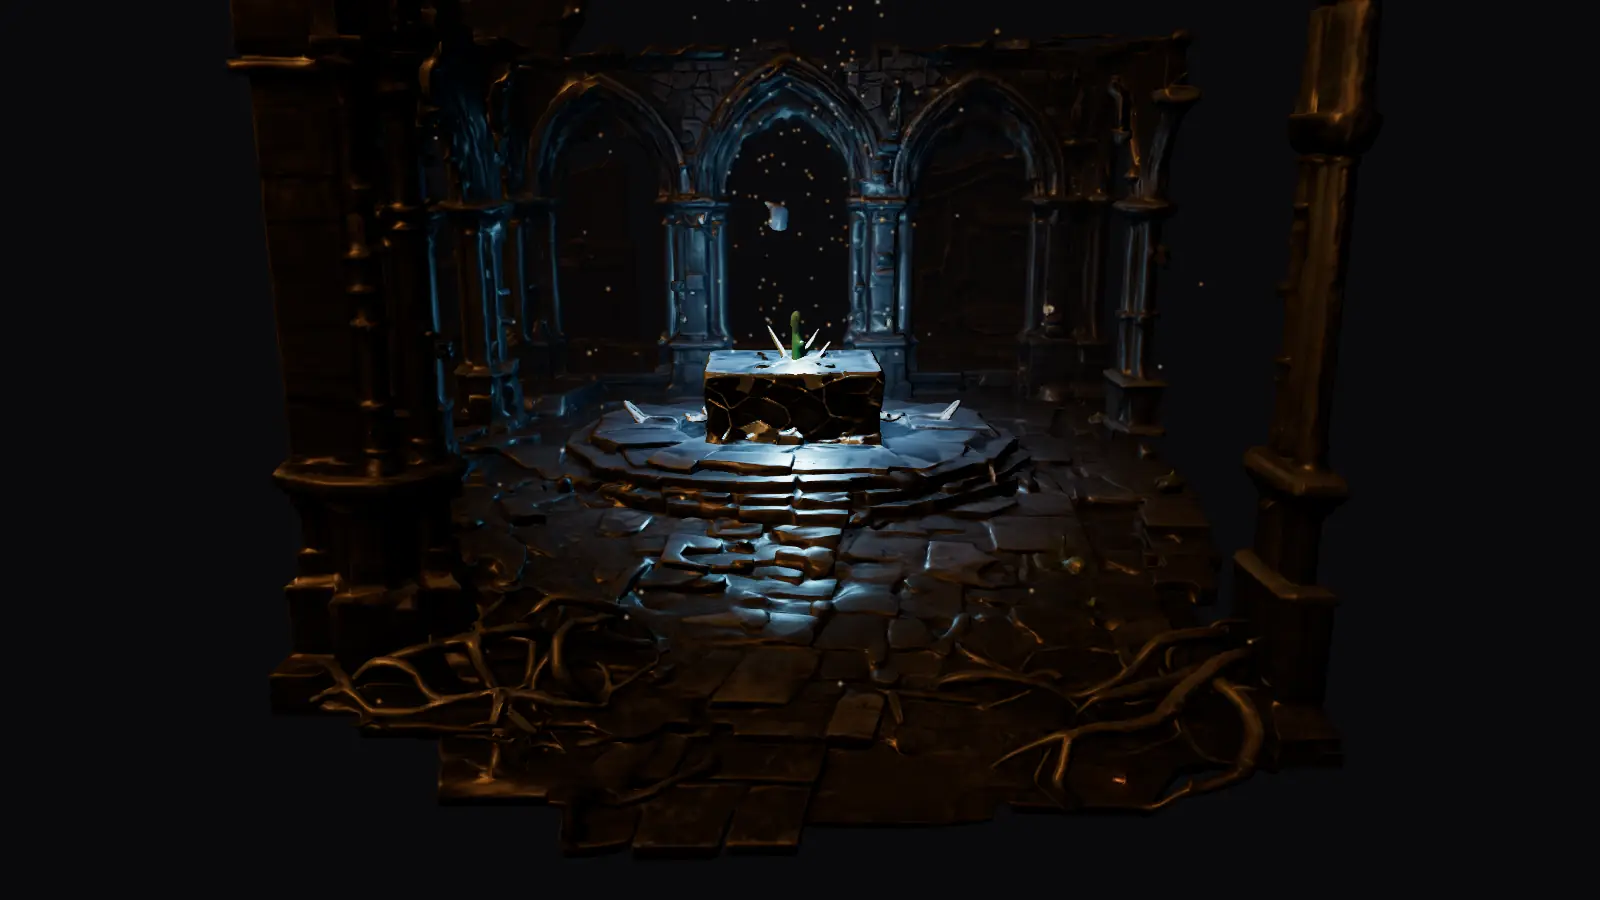
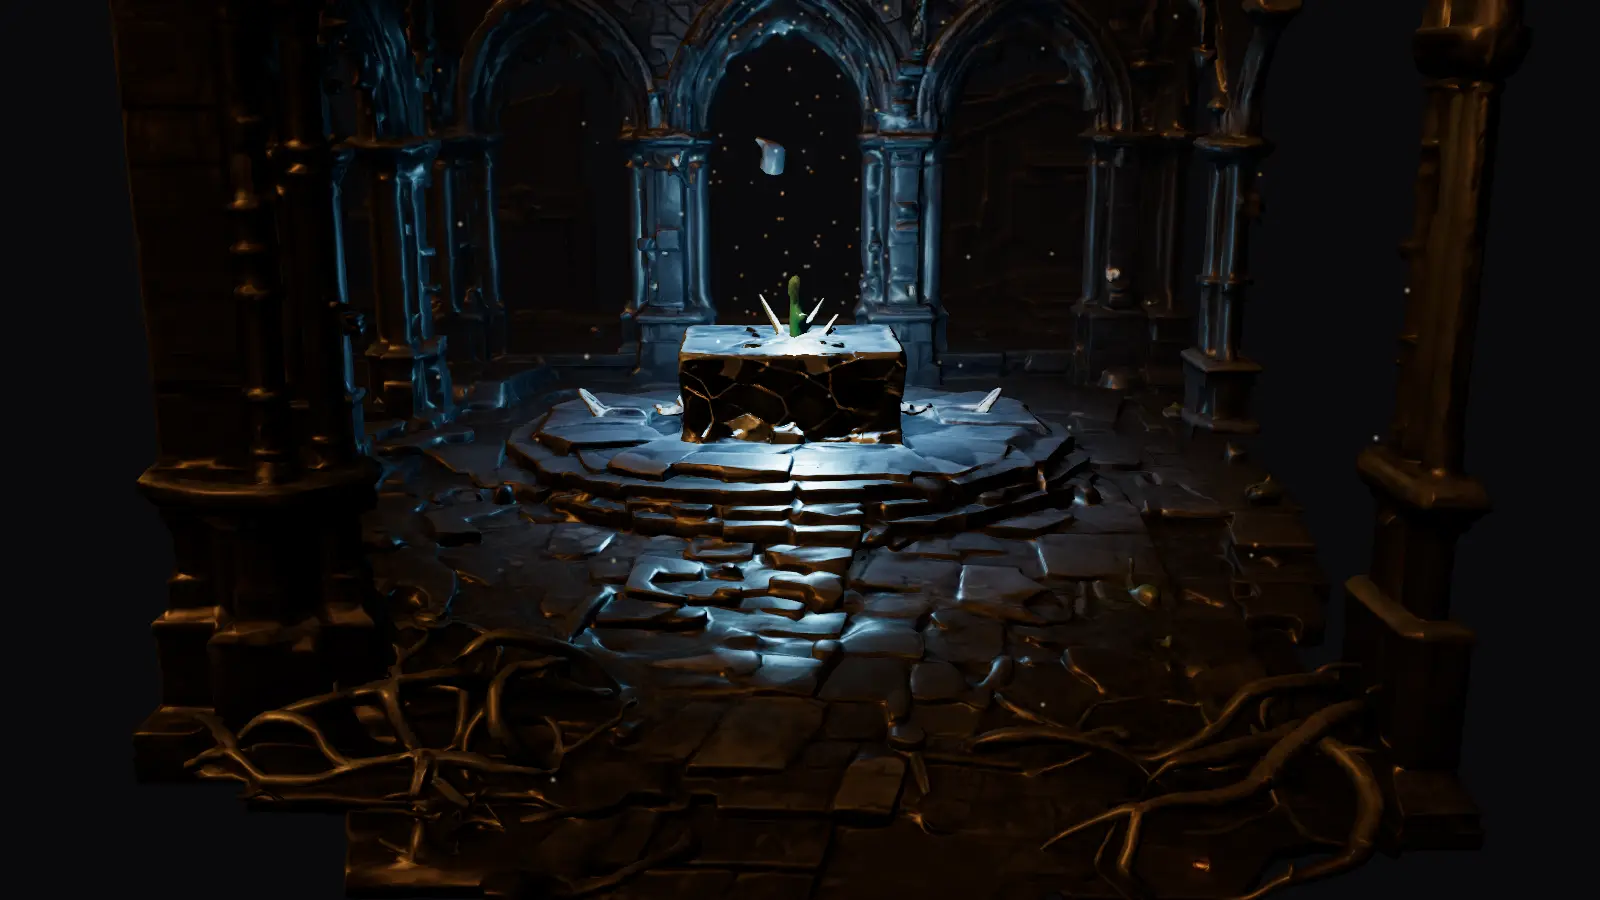
feat: cierre de landing page

diff --git a/src/components/sections/Journey.tsx b/src/components/sections/Journey.tsx
@@ -64,7 +64,7 @@ export function Journey() {
     >
       {/* Escenario: fijado mientras se recorre la sección. Sin overflow-hidden en la section, o sticky deja de funcionar. */}
       <div className="sticky top-0 h-svh overflow-hidden">
-        <HeroBackdrop cameraPath={progress} allowLive={live && near} />
+        <HeroBackdrop cameraPath={progress} allowLive={live && near} poster="journey" />
         <div
           aria-hidden="true"
           className="pointer-events-none absolute inset-0 bg-radial-[ellipse_80%_75%_at_50%_45%] from-transparent from-45% to-canvas"
@@ -75,15 +75,20 @@ export function Journey() {
         />
         <div
           aria-hidden="true"
-          className="pointer-events-none absolute inset-x-0 bottom-0 h-1/4 bg-linear-to-t from-canvas to-transparent"
+          className="pointer-events-none absolute inset-x-0 bottom-0 h-2/5 bg-linear-to-t from-canvas via-canvas/85 to-transparent"
         />
       </div>
 
       {/* Textos: suben sobre el escenario (margen negativo de una pantalla) y marcan cada tramo. */}
       <Container className="relative mt-[-100svh]">
-        {/* El degradado oscurece la escena justo detrás del titular para que se lea sobre la escalinata. */}
-        <header className="flex min-h-svh flex-col items-center justify-center gap-4 bg-radial-[ellipse_50%_28%_at_50%_52%] from-canvas/75 to-transparent text-center">
-          <Badge>{journey.eyebrow}</Badge>
+        {/* Móvil/tablet: texto centrado con un degradado radial detrás. En escritorio (lg) el bloque pasa
+            a la izquierda, fuera del altar, sobre un degradado que cubre ese lado a todo el ancho de la pantalla. */}
+        <header className="relative isolate flex min-h-svh flex-col items-center justify-center gap-4 bg-radial-[ellipse_85%_38%_at_50%_52%] from-canvas/92 from-30% to-transparent text-center lg:items-start lg:bg-none lg:pr-[56%] lg:text-left">
+          <div
+            aria-hidden="true"
+            className="pointer-events-none absolute inset-y-0 left-1/2 -z-10 hidden w-screen -translate-x-1/2 bg-radial-[ellipse_48%_46%_at_24%_52%] from-canvas/90 from-35% to-transparent lg:block"
+          />
+          <Badge solid>{journey.eyebrow}</Badge>
           <RevealHeading
             id="journey-title"
             text={journey.title}
@@ -102,7 +107,7 @@ export function Journey() {
             >
               <article
                 data-journey-step
-                className="flex max-w-md flex-col gap-3 rounded-lg border border-line bg-canvas/80 p-8 shadow-card"
+                className="flex max-w-md flex-col gap-3 rounded-lg border border-line bg-canvas/90 p-8 shadow-card"
               >
                 <p aria-hidden="true" className="font-display text-2xl font-bold text-crystal-300">
                   {step.marker}

diff --git a/src/components/three/HeroFallback.tsx b/src/components/three/HeroFallback.tsx
@@ -1,30 +1,42 @@
 /**
- * Capturas de la escena 3D con su mismo encuadre horizontal y vertical. Si cambias la cámara o la
- * iluminación en HeroScene, vuelve a capturarlas.
+ * Capturas de la escena 3D con su mismo encuadre horizontal y vertical: una con la cámara de reposo
+ * del hero y otra con el keyframe 0 de «La travesía» (cámara más alta y lejana). Si cambias la cámara
+ * o la iluminación en HeroScene o cameraPath, vuelve a capturarlas (ver README).
  */
-const POSTER = {
-  landscape: '/images/ashveil-hero-poster-landscape.webp',
-  portrait: '/images/ashveil-hero-poster-portrait.webp',
-}
+const POSTERS = {
+  hero: {
+    landscape: '/images/ashveil-hero-poster-landscape.webp',
+    portrait: '/images/ashveil-hero-poster-portrait.webp',
+  },
+  journey: {
+    landscape: '/images/ashveil-journey-poster-landscape.webp',
+    portrait: '/images/ashveil-journey-poster-portrait.webp',
+  },
+} as const
+
+export type PosterVariant = keyof typeof POSTERS
 
 /**
  * Versión estática del hero 3D: se usa sin WebGL, con reduced motion o en gama baja, y como
  * placeholder mientras carga el modelo. Los degradados imitan la composición (altar azul en el
  * centro, luz de brasa desde arriba a la izquierda) por si la imagen tampoco llega a cargar.
  */
-export function HeroFallback() {
+export function HeroFallback({ variant = 'hero' }: { variant?: PosterVariant }) {
+  const poster = POSTERS[variant]
   return (
     <div className="absolute inset-0 bg-canvas">
       <div className="absolute inset-0 bg-[radial-gradient(ellipse_60%_55%_at_30%_25%,color-mix(in_oklab,var(--color-ember-700)_45%,transparent)_0%,transparent_70%)]" />
       <div className="absolute inset-0 bg-[radial-gradient(ellipse_22%_24%_at_50%_42%,color-mix(in_oklab,var(--color-crystal-600)_60%,transparent)_0%,transparent_75%)]" />
       <picture>
         {/* La cámara usa el encuadre vertical cuando el canvas es más alto que ancho; aquí, el viewport. */}
-        <source media="(max-aspect-ratio: 1/1)" srcSet={POSTER.portrait} />
+        <source media="(max-aspect-ratio: 1/1)" srcSet={poster.portrait} />
         <img
-          src={POSTER.landscape}
+          src={poster.landscape}
           alt=""
           decoding="async"
-          fetchPriority="high"
+          // Solo el póster del hero es candidato a LCP; el de la travesía queda lejos del primer viewport.
+          loading={variant === 'hero' ? 'eager' : 'lazy'}
+          fetchPriority={variant === 'hero' ? 'high' : 'auto'}
           className="absolute inset-0 size-full object-cover"
         />
       </picture>

diff --git a/src/components/three/HeroScene.tsx b/src/components/three/HeroScene.tsx
@@ -5,6 +5,7 @@ import {
   AdditiveBlending,
   CanvasTexture,
   Color,
+  MathUtils,
   PerspectiveCamera,
   Vector3,
   type PointLight,
@@ -35,6 +36,21 @@ const FRAMING = {
   landscape: { fov: 42, lookAt: new Vector3(ALTAR.x, ALTAR.y - 0.13, ALTAR.z) },
   portrait: { fov: 52, lookAt: new Vector3(ALTAR.x, ALTAR.y - 0.24, ALTAR.z) },
 }
+/**
+ * En pantallas anchas (≥ 1,6:1, como 1440×900 o 16:9) el altar quedaba pequeño dentro del encuadre:
+ * se cierra el FOV de 42° a 34° (≈ 1,25× de zoom) sin mover la cámara, para que la niebla no cambie.
+ * Entre 1,2:1 y 1,6:1 se interpola, para que al redimensionar no haya saltos. En vertical no cambia.
+ */
+const WIDE_FOV = 34
+const WIDE_ASPECT = { from: 1.2, to: 1.6 }
+
+function landscapeFov(aspect: number) {
+  return MathUtils.lerp(
+    FRAMING.landscape.fov,
+    WIDE_FOV,
+    MathUtils.smoothstep(aspect, WIDE_ASPECT.from, WIDE_ASPECT.to),
+  )
+}
 /** Desplazamiento máximo de la cámara con el parallax del mouse, en unidades del modelo. */
 const PARALLAX = { x: 0.06, y: 0.03 }
 
@@ -47,7 +63,9 @@ const EMBER_CEILING = 0.85
 
 function CameraRig({ parallax }: { parallax: boolean }) {
   const portrait = useThree((state) => state.size.width < state.size.height)
+  const aspect = useThree((state) => state.size.width / state.size.height)
   const framing = portrait ? FRAMING.portrait : FRAMING.landscape
+  const fov = portrait ? FRAMING.portrait.fov : landscapeFov(aspect)
   const pointer = useRef({ x: 0, y: 0 })
   const target = useMemo(() => new Vector3(), [])
 
@@ -65,8 +83,8 @@ function CameraRig({ parallax }: { parallax: boolean }) {
   }, [parallax])
 
   useFrame(({ camera }, delta) => {
-    if (camera instanceof PerspectiveCamera && camera.fov !== framing.fov) {
-      camera.fov = framing.fov
+    if (camera instanceof PerspectiveCamera && camera.fov !== fov) {
+      camera.fov = fov
       camera.updateProjectionMatrix()
     }
     target.set(

diff --git a/src/components/three/HeroBackdrop.tsx b/src/components/three/HeroBackdrop.tsx
@@ -2,7 +2,7 @@ import { Suspense, lazy, useCallback, useState } from 'react'
 import { usePrefersReducedMotion } from '../../hooks/usePrefersReducedMotion'
 import type { ScrollProgress } from './cameraPath'
 import { canRenderHeroScene } from './capabilities'
-import { HeroFallback } from './HeroFallback'
+import { HeroFallback, type PosterVariant } from './HeroFallback'
 import { SceneErrorBoundary } from './SceneErrorBoundary'
 
 // three, R3F y drei van en un chunk aparte que no bloquea el primer render.
@@ -26,16 +26,18 @@ interface HeroBackdropProps {
   cameraPath?: ScrollProgress
   /** false fuerza el póster (p. ej. en móvil o mientras la sección aún está lejos). */
   allowLive?: boolean
+  /** Póster estático: el del hero (por defecto) o el del primer encuadre de la travesía. */
+  poster?: PosterVariant
 }
 
 /** Fondo 3D: el fallback siempre debajo y, si el dispositivo puede, la escena 3D encima con un fundido. */
-export function HeroBackdrop({ cameraPath, allowLive = true }: HeroBackdropProps) {
+export function HeroBackdrop({ cameraPath, allowLive = true, poster = 'hero' }: HeroBackdropProps) {
   const reducedMotion = usePrefersReducedMotion()
   const [capable] = useState(canRenderHeroScene)
 
   return (
     <div aria-hidden="true" className="absolute inset-0">
-      <HeroFallback />
+      <HeroFallback variant={poster} />
       {capable && !reducedMotion && allowLive && (
         <SceneErrorBoundary>
           <Suspense fallback={null}>

diff --git a/src/components/ui/Badge.tsx b/src/components/ui/Badge.tsx
@@ -7,15 +7,22 @@ const tones: Record<Tone, string> = {
   crystal: 'border-crystal-600/60 bg-crystal-500/10 text-crystal-300',
 }
 
+/** Sobre la escena 3D o un póster el fondo translúcido no basta: una base oscura garantiza el contraste AA. */
+const solidTones: Record<Tone, string> = {
+  ember: 'border-ember-600/60 bg-canvas/80 text-ember-300 backdrop-blur-sm',
+  crystal: 'border-crystal-600/60 bg-canvas/80 text-crystal-300 backdrop-blur-sm',
+}
+
 export function Badge({
   tone = 'ember',
+  solid = false,
   className = '',
   ...props
-}: HTMLAttributes<HTMLSpanElement> & { tone?: Tone }) {
+}: HTMLAttributes<HTMLSpanElement> & { tone?: Tone; solid?: boolean }) {
   return (
     <span
       {...props}
-      className={`inline-flex items-center gap-2 rounded-pill border px-3 py-1 text-xs font-semibold tracking-widest uppercase ${tones[tone]} ${className}`.trim()}
+      className={`inline-flex items-center gap-2 rounded-pill border px-3 py-1 text-xs font-semibold tracking-widest uppercase ${(solid ? solidTones : tones)[tone]} ${className}`.trim()}
     />
   )
 }

diff --git a/src/components/sections/Hero.tsx b/src/components/sections/Hero.tsx
@@ -29,7 +29,7 @@ export function Hero() {
 
       {/* Capa 3: contenido */}
       <Container className="flex flex-col items-center gap-6 text-center">
-        <Badge tone="crystal">{hero.badge}</Badge>
+        <Badge tone="crystal" solid>{hero.badge}</Badge>
         <Heading level={1} id="hero-title" className="drop-shadow-[0_2px_24px_var(--color-canvas)]">
           {name}
         </Heading>

diff --git a/src/index.css b/src/index.css
@@ -15,7 +15,7 @@
   /* ── Colores: texto ── */
   --color-ink: #efe8dc;
   --color-ink-muted: #a39a90;
-  --color-ink-subtle: #7a7269;
+  --color-ink-subtle: #8f877d; /* = ash-400. Antes #7a7269 (3,65:1 sobre surface); ahora ≥ 4,5:1 sobre canvas, surface y surface-raised */
 
   /* ── Colores: acento ámbar/brasa ── */
   --color-ember-300: #ffc98a;

diff --git a/README.md b/README.md
@@ -21,7 +21,7 @@ Todo se hace en archivos de configuración y assets; no hace falta tocar compone
 - [ ] **Colores** — variables `--color-*` en `@theme` de `src/index.css` y, para la escena 3D, el mismo valor en `src/components/three/palette.ts`. Ver [Nueva marca](#nueva-marca).
 - [ ] **Fuentes** — `--font-display` y `--font-sans` en `@theme`, y el `<link>` de Google Fonts en `index.html`.
 - [ ] **Modelo 3D** — ver [Assets](#assets).
-- [ ] **Pósteres del hero** — ver [Assets](#assets).
+- [ ] **Pósteres del hero y de la travesía** — ver [Assets](#assets).
 - [ ] **Enlaces** — `nav.cta`, `hero.primaryCta`, `hero.secondaryCta`, `finalCta.cta` y `footer.links` en `site.ts`. Sustituye los `#anclas` de ejemplo (`#jugar`, `#registro`, `#trailer`, `#terminos`…) por las URL reales.
 - [ ] **Datos de ejemplo** — cifras y testimonios de `community` están marcados como ejemplo (`isExample`); cámbialos por datos reales.
 - [ ] **Verificar** — `npm run lint` y `npm run build`.
@@ -38,7 +38,7 @@ Todo se hace en archivos de configuración y assets; no hace falta tocar compone
 
 ### Placeholders del lazy loading y saltos de layout
 
-Mientras llega el chunk de cada sección se reserva espacio con un placeholder cuya altura mínima (`min-h-*`) se define por sección en `registry.ts`, con la escala de espaciado de Tailwind (y `svh` para «La travesía»), por ejemplo `min-h-288 sm:min-h-192 lg:min-h-184`. No dependen del texto concreto: es un suelo orientativo, así que al cambiar el contenido de una sección no hace falta remedirla. Esto limita los saltos de layout (y los desajustes de ScrollTrigger) al sustituir el placeholder por la sección real. Si el contenido de una sección queda muy lejos de ese suelo, ajusta su clase en `registry.ts`.
+Mientras llega el chunk de cada sección se reserva espacio con un placeholder cuya altura mínima (`min-h-*`) se define por sección en `registry.ts`, con la escala de espaciado de Tailwind (y `svh` para «La travesía»), por ejemplo `min-h-288 sm:min-h-192 lg:min-h-184`. No dependen del texto concreto: es un suelo orientativo, así que al cambiar el contenido de una sección no hace falta remedirla. Esto limita los saltos de layout (y los desajustes de ScrollTrigger) al sustituir el placeholder por la sección real. Si el contenido de una sección queda muy lejos de ese suelo, ajusta su clase en `registry.ts`. Medido con el contenido actual en 390, 768 y 1440 px, todas las secciones están dentro de ±4 % de lo reservado (la travesía coincide exacta: 400 svh).
 
 ## Nueva marca
 
@@ -55,7 +55,7 @@ Todos los tokens de diseño están en `@theme` de `src/index.css` (el único CSS
 | Sombras de acento | `--shadow-card`, `--shadow-ember`, `--shadow-crystal` (llevan el color de ember/crystal en `rgb()`; actualízalos si cambias esas escalas) |
 | Nombre | `name` en `site.ts` (navbar, footer, `og:site_name`) |
 
-**Los colores viven en dos sitios.** three.js necesita valores, no clases, así que `src/components/three/palette.ts` repite seis tokens. La clave `ember300` equivale a `--color-ember-300`. `npm run check:tokens` (incluido en `npm run lint`) falla si alguno difiere, si falta el token o si `meta.themeColor` no coincide con `--color-canvas`. El script solo comprueba los colores que ya están en `palette.ts`; si añades uno nuevo, sigue la misma convención de nombres.
+**Los colores viven en dos sitios.** three.js necesita valores, no clases, así que `src/components/three/palette.ts` repite seis tokens. La clave `ember300` equivale a `--color-ember-300`. `npm run check:tokens` (incluido en `npm run lint`) falla si alguno difiere, si falta el token o si `meta.themeColor` no coincide con `--color-canvas`. También exige contraste WCAG AA (4,5:1) de `ink`, `ink-muted`, `ink-subtle`, `ember-300` y `crystal-300` sobre `canvas`, `surface` y `surface-raised`. (`ink-subtle` pasó de `#7a7269` a `#8f877d`, el mismo valor que `ash-400`, porque daba 3,65:1 en el pie.) El script solo comprueba los colores que ya están en `palette.ts`; si añades uno nuevo, sigue la misma convención de nombres.
 
 ## Metadatos y SEO
 
@@ -75,6 +75,8 @@ Todo en `public/`; se referencia por ruta absoluta (`/models/…`, `/images/…`
 | Modelo optimizado (el que carga la web) | `public/models/ashveil-hero.glb` | Objetivo < 3 MB (el actual: ~2,6 MB) |
 | Póster horizontal | `public/images/ashveil-hero-poster-landscape.webp` | 1600×900 px (16:9), < 60 KB |
 | Póster vertical | `public/images/ashveil-hero-poster-portrait.webp` | 720×1464 px (≈1:2), < 60 KB |
+| Póster de la travesía, horizontal | `public/images/ashveil-journey-poster-landscape.webp` | 1600×900 px (16:9), < 60 KB |
+| Póster de la travesía, vertical | `public/images/ashveil-journey-poster-portrait.webp` | 720×1464 px (≈1:2), < 60 KB |
 | Favicon | `public/favicon.svg` (ruta en `meta.favicon`) | SVG, o PNG 32×32 / 180×180; ICO también vale |
 | Imagen social | ruta en `meta.ogImage` | 1200×630 px. Por defecto reutiliza el póster horizontal; crea una propia para mejor resultado |
 
@@ -83,13 +85,9 @@ Todo en `public/`; se referencia por ruta absoluta (`/models/…`, `/images/…`
 2. Si el modelo es otro, revisa en `src/components/three/` la posición del altar y los keyframes (`cameraPath.ts`), el encuadre y la iluminación (`HeroScene.tsx`); la escena está compuesta para el modelo actual.
 
 ### Regenerar los pósteres
-Los pósteres se usan sin WebGL, con reduced motion, en gama baja y mientras carga el modelo. Tienen que coincidir con la cámara real, o el paso a la escena 3D se nota como un salto.
+Los pósteres se usan sin WebGL, con reduced motion, en gama baja, en móvil/táctil (la travesía) y mientras carga el modelo. Tienen que coincidir con la cámara real, o el paso a la escena 3D se nota como un salto. Hay cuatro: hero y travesía, cada uno horizontal y vertical.
 
-1. Arranca `npm run dev` y abre la página con un viewport **16:9** (por ejemplo 1600×900) para el horizontal y con uno **vertical** (≈ 720×1464) para el vertical. Son los dos encuadres de `FRAMING` en `HeroScene.tsx` (el vertical usa otro `fov`).
-2. Espera a que cargue el modelo y captura el hero sin navbar ni textos (oculta el contenido con las herramientas del navegador), con la cámara en su posición de reposo.
-3. Exporta a WebP con los tamaños de la tabla y sustituye los dos archivos manteniendo el nombre.
-
-«La travesía» no tiene pósteres propios: reutiliza los del hero, así que al cambiar el modelo o la cámara basta con regenerar esos dos.
+El procedimiento exacto (viewports, qué ocultar, tamaños) está en [src/components/three/README.md](src/components/three/README.md#pósteres). Resumen: `npm run dev`, esperar a que cargue el modelo, ocultar todo salvo el `<canvas>`, capturarlo y exportar a WebP con los tamaños de la tabla, manteniendo el nombre. Si cambias el modelo o la cámara del hero, regenera los del hero; si cambias el keyframe 0 de `cameraPath.ts` o el modelo, regenera los de la travesía.
 
 ## Estructura de configuración
 - `src/config/site.ts` — contenido, metadatos y secciones activas (tipo `SiteConfig`).
@@ -101,3 +99,32 @@ Los pósteres se usan sin WebGL, con reduced motion, en gama baja y mientras car
 ## Notas de diseño
 - **Movimiento**: respeta `prefers-reduced-motion` con las variantes `motion-safe:` / `motion-reduce:` y el hook `usePrefersReducedMotion`.
 - **Efectos**: halo del cursor (`components/effects/CustomCursor.tsx`, `data-cursor="crystal"` lo vuelve azul), grano de película (`FilmGrain.tsx`), titulares revelados (`ui/RevealHeading.tsx`), tarjetas con inclinación (`ui/TiltCard.tsx`) y sonido ambiente generado con Web Audio (`lib/ambientAudio.ts`, apagado por defecto). Todos se desactivan con reduced motion salvo el grano, que es estático, y el audio, que solo suena si se activa.
+
+## Verificación y límites
+
+Qué se comprobó, y con qué, en la última revisión (Chrome 155 estable en Windows, emulación con Playwright):
+
+- **Alturas de placeholder** en 390, 768 y 1440 px: ±4 % respecto de `registry.ts`.
+- **Contraste**: muestreo de los píxeles reales detrás de cada texto (incluye el canvas 3D, los pósteres y los degradados) en 1440, 1024, 820 y 390 px; sin fallos AA. No cubre los estados `:hover`.
+- **axe-core** (WCAG 2 A/AA, 2.1, 2.2 AA y buenas prácticas): 0 violaciones en escritorio y móvil, con y sin reduced motion y con puntero táctil. Las comprobaciones de contraste sobre canvas o imagen las marca como «incompletas»; se cubren con el punto anterior.
+- **Reduced motion** (emulado con `prefers-reduced-motion` desde el navegador): sin canvas, sin halo del cursor, sin tilt, sin animaciones en curso y todo el contenido visible.
+- **Táctil** (`hasTouch` y `pointer: coarse` emulados): sin halo ni tilt; la travesía usa el póster.
+- **Teclado**: recorrido con Tab de todos los elementos interactivos; todos con `:focus-visible` y anillo visible (incluidos FAQ y tabs).
+- **Rendimiento**: Lighthouse sobre `npm run build` + `npm run preview`, 3 pasadas por factor de forma, con el throttling simulado de Lighthouse.
+
+**No se ha probado**:
+- **Safari** (macOS e iOS) ni **Firefox**: `backdrop-filter`, `svh`, `inert`, `color-mix`, `bg-radial`, WebGL y `position: sticky` con Lenis podrían comportarse distinto.
+- **Dispositivos táctiles reales**: solo emulación; el rendimiento 3D en móvil, el scroll inercial y el teclado virtual no están verificados.
+- **Reduced motion desde el sistema operativo**: solo se emuló desde el navegador.
+- **Lectores de pantalla reales** (NVDA, JAWS, VoiceOver, TalkBack): axe no sustituye una prueba con voz; los tabs, el FAQ y el botón `aria-pressed` siguen WAI-ARIA, pero no se escucharon.
+- **GPU real**: el WebGL se renderizó por software (SwiftShader); los FPS y tiempos del 3D no son representativos.
+- **LCP y CLS** son medición local con emulación, no datos de campo.
+- `meta.url` está vacío: no se comprobó Open Graph con una URL pública ni con los validadores de las redes sociales.
+
+## Deuda técnica conocida
+
+- **Un canvas WebGL por sección** (hero y travesía): ver [src/components/three/README.md](src/components/three/README.md#deuda-técnica-un-canvas-webgl-por-sección).
+- **Rendimiento en móvil**: Lighthouse móvil (Slow 4G, CPU ×4) da LCP ≈ 4,8–5,3 s y TBT ≈ 1–1,7 s. El chunk de three/R3F (`HeroScene`, ~990 kB, 265 kB gzip) y el GLB (2,6 MB) se piden en el hero también en móvil.
+- `public/models/ashveil-hero-original.glb` (11 MB) se copia a `dist/`; sácalo de `public/` o exclúyelo del despliegue.
+- No hay `robots.txt` (Lighthouse SEO lo marca como no válido); añádelo al desplegar.
+- `og:image` reutiliza el póster horizontal del hero (1600×900, no 1200×630).
